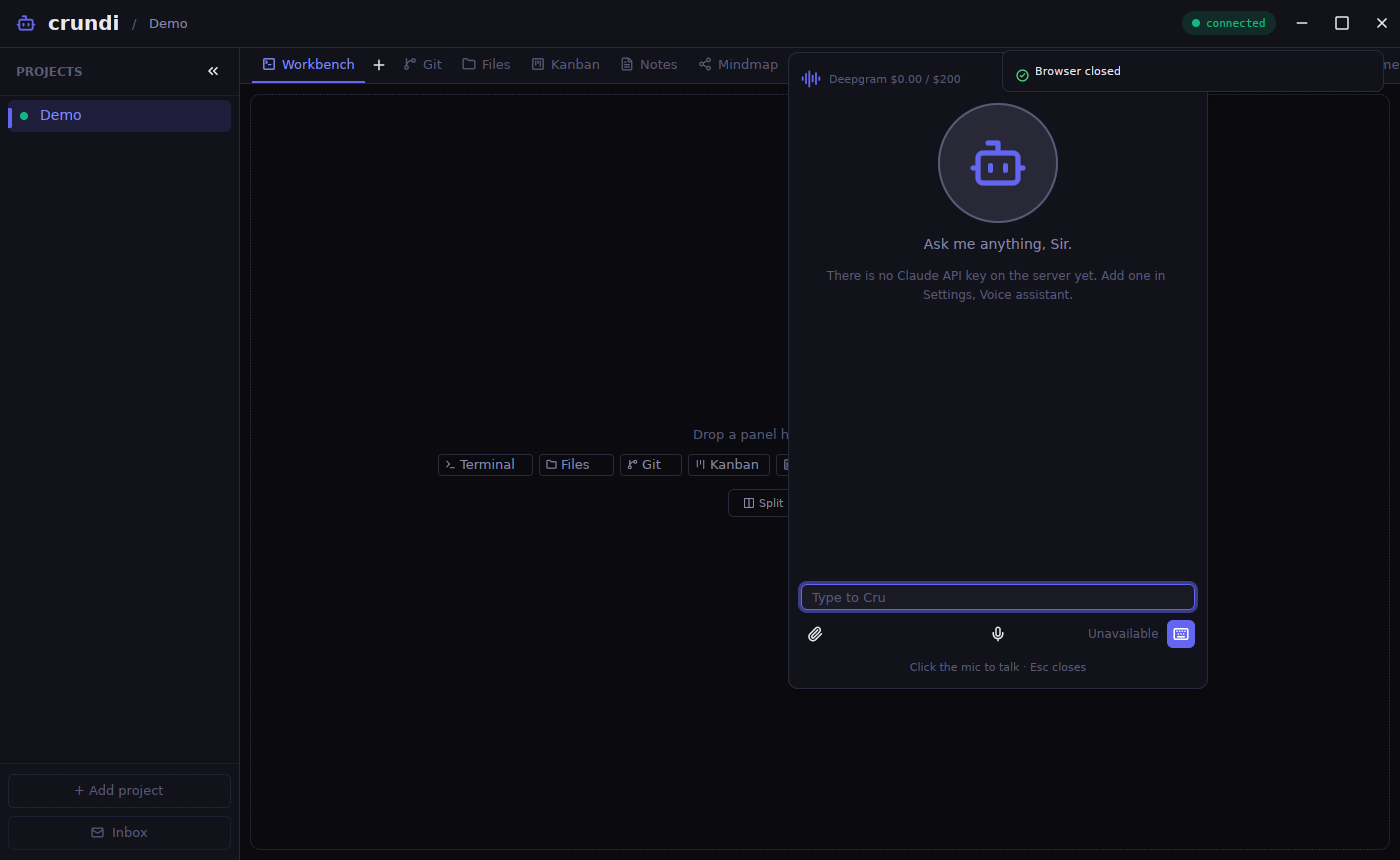
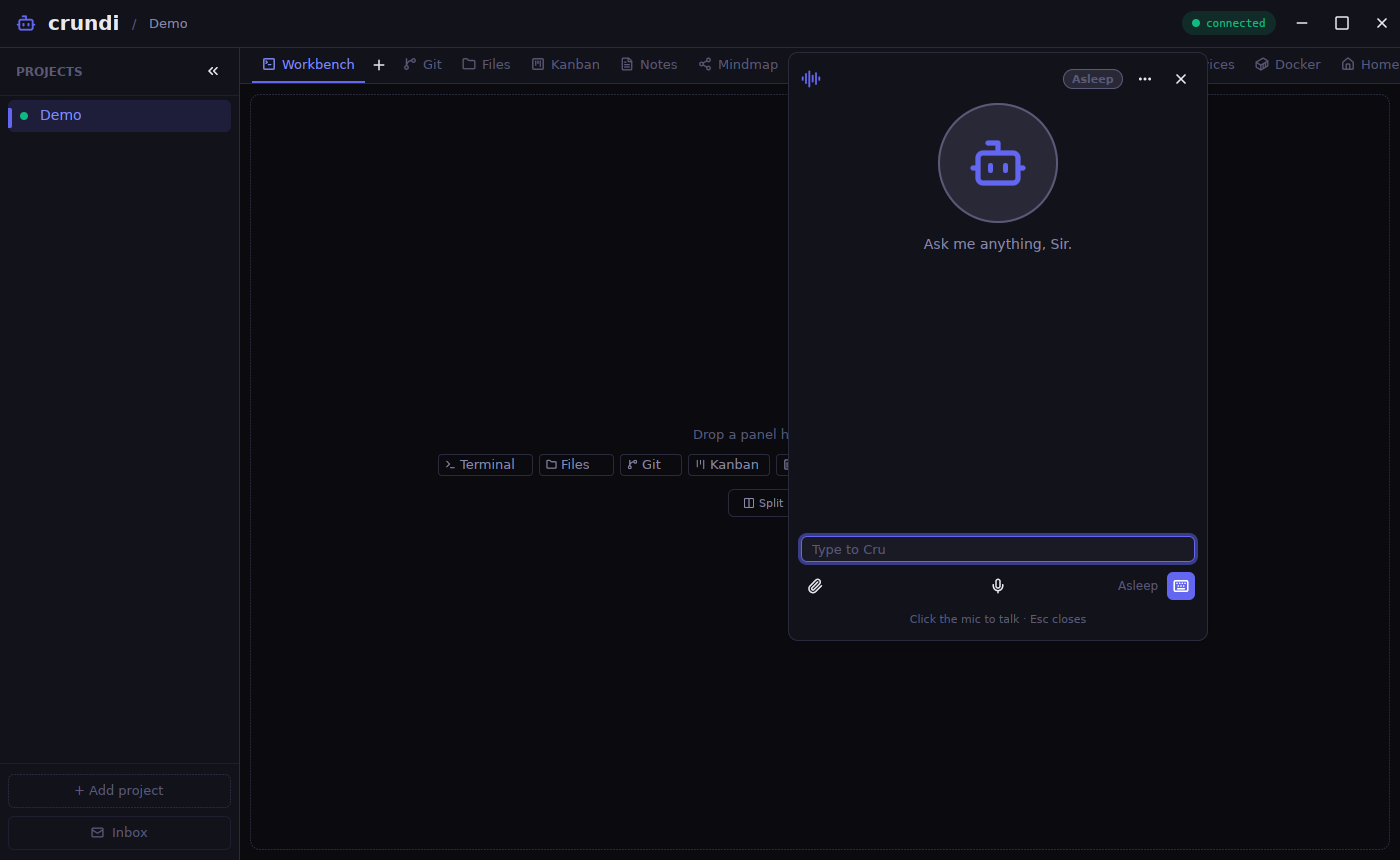
factory: Desktop — I built the 6.3 chat bubble and fixed F81

diff --git a/native-gpui/crates/desktop/src/bubble.rs b/native-gpui/crates/desktop/src/bubble.rs
@@ -1,0 +1,184 @@
+//! The chat bubble (6.3; the change request's Desktop list): a chat in a
+//! small window of its own that floats over every other window, as the
+//! phone's bubble does (specs/desktop/inbox-tray-bubble.md C.1): collapsed,
+//! a round head (an unread dot when a message comes in); expanded, the chat
+//! itself, its log over its composer (the same views as a pane: chat-log,
+//! chat-composer, on the chat's own model), with a head row (title, collapse,
+//! open in Crundi, close). A press on the head without moving expands or
+//! collapses it; a drag moves the window.
+//!
+//! One bubble at a time; opening another chat moves the bubble to it.
+
+use crate::ctx;
+use crundi_chat_composer::ComposerView;
+use crundi_chat_log::LogView;
+use crundi_chat_model::{self as model, ChatModel};
+use crundi_theme::{IconName, T};
+use crundi_widgets as w;
+use gpui::{prelude::FluentBuilder as _, *};
+use gpui_component::Root;
+use serde_json::{json, Value};
+
+pub struct Bubble {
+    chat: String,
+    model: Entity<ChatModel>,
+    log: Entity<LogView>,
+    composer: Entity<ComposerView>,
+    expanded: bool,
+    unread: bool,
+    seen: usize,
+    press: Option<Point<Pixels>>,
+    _sub: Subscription,
+}
+
+impl Bubble {
+    fn new(chat: &str, window: &mut Window, cx: &mut Context<Self>) -> Self {
+        let m = model::model(cx, chat);
+        let seen = m.read(cx).conv.entries.len();
+        let log = cx.new(|cx| LogView::new(m.clone(), cx));
+        let composer = cx.new(|cx| ComposerView::new(m.clone(), window, cx));
+        let sub = cx.observe(&m, |this: &mut Bubble, m, cx| {
+            let n = m.read(cx).conv.entries.len();
+            if n > this.seen && !this.expanded { this.unread = true; }
+            if this.expanded { this.seen = n; }
+            cx.notify();
+        });
+        Bubble { chat: chat.to_string(), model: m, log, composer, expanded: true, unread: false, seen, press: None, _sub: sub }
+    }
+
+    fn title(&self, cx: &App) -> (String, String) {
+        let m = self.model.read(cx);
+        (if m.conv.title.is_empty() { "Chat".into() } else { m.conv.title.clone() }, if m.conv.state.is_empty() { "idle".into() } else { m.conv.state.clone() })
+    }
+
+    /// Expand or collapse: the window takes the chat's size or the head's.
+    pub fn set_expanded(&mut self, on: bool, window: &mut Window, cx: &mut Context<Self>) {
+        self.expanded = on;
+        if on { self.unread = false; self.seen = self.model.read(cx).conv.entries.len(); }
+        window.resize(if on { size(T::BUBBLE_W, T::BUBBLE_H) } else { size(T::BUBBLE_HEAD, T::BUBBLE_HEAD) });
+        cx.notify();
+    }
+
+    /// The head: a press without moving toggles; a drag moves the window.
+    fn head_events(d: Stateful<Div>, cx: &mut Context<Self>) -> Stateful<Div> {
+        d.on_mouse_down(MouseButton::Left, cx.listener(|this, e: &MouseDownEvent, _, _| this.press = Some(e.position)))
+            .on_mouse_move(cx.listener(|this, e: &MouseMoveEvent, window, _| {
+                let Some(p) = this.press else { return };
+                if e.pressed_button != Some(MouseButton::Left) { this.press = None; return; }
+                let d = e.position - p;
+                if f32::from(d.x).abs() > f32::from(T::SP_4) || f32::from(d.y).abs() > f32::from(T::SP_4) { this.press = None; window.start_window_move(); }
+            }))
+            .on_mouse_up(MouseButton::Left, cx.listener(|this, _, window, cx| {
+                if this.press.take().is_some() { let on = !this.expanded; this.set_expanded(on, window, cx); }
+            }))
+    }
+}
+
+impl Render for Bubble {
+    fn render(&mut self, _window: &mut Window, cx: &mut Context<Self>) -> impl IntoElement {
+        let (title, state) = self.title(cx);
+        let root = div().size_full().bg(T::bg()).text_color(T::text()).text_size(T::TEXT_13).font(crundi_theme::ui_font());
+        if !self.expanded {
+            let head = div().id("bubble-head").size_full().rounded_full().bg(T::accent()).flex().items_center().justify_center()
+                .text_color(T::white()).text_size(T::ICON_XL).cursor_pointer().child(IconName::MessageSquare)
+                .when(self.unread, |d| d.child(div().absolute().top(T::SP_4).right(T::SP_4).size(T::DOT + T::SP_4).rounded_full().bg(T::red()).border_2().border_color(T::white())));
+            return root.bg(T::accent()).rounded_full().relative().child(Self::head_events(head, cx)).into_any_element();
+        }
+        let chat = self.chat.clone();
+        let head = div().id("bubble-bar").flex().flex_none().items_center().gap(T::SP_8).h(T::PANE_HEAD).px(T::SP_10)
+            .bg(T::bg_secondary()).border_b_1().border_color(T::border()).cursor_grab()
+            .child(w::dot(w::state_color(&state)))
+            .child(div().flex_1().min_w_0().truncate().font_weight(T::W_SEMIBOLD).child(title));
+        let head = Self::head_events(head, cx)
+            .child(w::icon_button("bubble-collapse", IconName::Minus, "Collapse to the bubble").on_click(cx.listener(|this, _, window, cx| this.set_expanded(false, window, cx))))
+            .child(w::icon_button("bubble-app", IconName::Maximize2, "Open in Crundi").on_click(move |_, _, _| { ctx::raise(); crate::go_to_chat(&chat); }))
+            .child(w::icon_button("bubble-close", IconName::X, "Close the bubble").on_click(|_, window, _| { window.remove_window(); close_state(); }));
+        root.flex().flex_col().border_1().border_color(T::border())
+            .child(head)
+            .child(div().flex().flex_col().flex_1().min_h_0().child(self.log.clone()).child(self.composer.clone()))
+            .into_any_element()
+    }
+}
+
+/// The bubble's window and view (one at a time).
+struct Open { window: AnyWindowHandle, view: Entity<Bubble> }
+thread_local! { static OPEN: std::cell::RefCell<Option<Open>> = const { std::cell::RefCell::new(None) }; }
+
+fn close_state() { OPEN.with(|o| *o.borrow_mut() = None); }
+
+/// Open the bubble for a chat (or move the bubble to it), expanded.
+pub fn open(chat: &str, cx: &mut App) {
+    if chat.is_empty() { return ctx::toast_error("This app cannot open a bubble"); }
+    let cur = OPEN.with(|o| o.borrow().as_ref().map(|x| (x.window, x.view.clone())));
+    if let Some((win, view)) = cur {
+        if view.read(cx).chat == chat {
+            let _ = win.update(cx, |_, window, cx| view.update(cx, |b, cx| b.set_expanded(true, window, cx)));
+            return;
+        }
+        let _ = win.update(cx, |_, window, _| window.remove_window());
+        close_state();
+    }
+    // Bottom right of the display (the expanded chat fits above and left of it).
+    let size = size(T::BUBBLE_W, T::BUBBLE_H);
+    let origin = match cx.primary_display() {
+        Some(d) => { let b = d.bounds(); point(b.origin.x + b.size.width - size.width - T::SP_24, b.origin.y + b.size.height - size.height - T::SP_24) }
+        None => point(T::WINDOW_W - size.width - T::SP_24, T::WINDOW_H - size.height - T::SP_24),
+    };
+    let opts = WindowOptions {
+        window_bounds: Some(WindowBounds::Windowed(Bounds { origin, size })),
+        titlebar: None,
+        kind: WindowKind::PopUp,
+        is_movable: true,
+        focus: true,
+        window_decorations: Some(WindowDecorations::Client),
+        app_id: Some("crundi-bubble".into()),
+        ..Default::default()
+    };
+    let id = chat.to_string();
+    let mut made: Option<Entity<Bubble>> = None;
+    let r = cx.open_window(opts, |window, cx| {
+        let b = cx.new(|cx| Bubble::new(&id, window, cx));
+        made = Some(b.clone());
+        cx.new(|cx| Root::new(b, window, cx))
+    });
+    match (r, made) {
+        (Ok(h), Some(view)) => OPEN.with(|o| *o.borrow_mut() = Some(Open { window: h.into(), view })),
+        _ => ctx::toast_error("This app cannot open a bubble"),
+    }
+}
+
+/// Expand or collapse the open bubble.
+pub fn toggle(cx: &mut App) {
+    let Some((win, view)) = OPEN.with(|o| o.borrow().as_ref().map(|x| (x.window, x.view.clone()))) else { return };
+    let _ = win.update(cx, |_, window, cx| view.update(cx, |b, cx| { let on = !b.expanded; b.set_expanded(on, window, cx); }));
+}
+
+pub fn close(cx: &mut App) {
+    let Some(win) = OPEN.with(|o| o.borrow().as_ref().map(|x| x.window)) else { return };
+    let _ = win.update(cx, |_, window, _| window.remove_window());
+    close_state();
+}
+
+/// Type and send in the bubble's composer (the test driver).
+pub fn send(text: &str, cx: &mut App) {
+    let Some((win, view)) = OPEN.with(|o| o.borrow().as_ref().map(|x| (x.window, x.view.clone()))) else { return };
+    let comp = view.read(cx).composer.clone();
+    let t = text.to_string();
+    let _ = win.update(cx, |_, window, cx| comp.update(cx, |c, cx| { c.set_text(&t, window, cx); c.send(window, cx); }));
+}
+
+/// The whole screen with the bubble on it, as a PNG (X11: xwd), for the test driver.
+pub fn snap(path: &str) -> bool {
+    std::process::Command::new("sh").arg("-c").arg(format!("xwd -silent -root | convert xwd:- png:{path}")).status().is_ok_and(|s| s.success())
+}
+
+pub fn props(cx: &App) -> Value {
+    OPEN.with(|o| match o.borrow().as_ref() {
+        None => json!({ "open": false }),
+        Some(x) => {
+            let b = x.view.read(cx);
+            let (title, state) = b.title(cx);
+            json!({ "open": true, "chat": b.chat, "expanded": b.expanded, "unread": b.unread, "title": title, "state": state, "entries": b.model.read(cx).conv.entries.len() })
+        }
+    })
+}

diff --git a/native-gpui/crates/desktop/src/lib.rs b/native-gpui/crates/desktop/src/lib.rs
@@ -14,6 +14,7 @@
 //! - `ctx`: what the logic reads of the window and asks of it.
 
 mod browsers;
+mod bubble;
 mod ctx;
 mod cru;
 mod cru_ui;
@@ -86,7 +87,9 @@ pub fn init(window: &mut Window, cx: &mut App) {
             _ => {}
         })
         .test_ui(|name, args, window, cx| { refresh(window, cx); test_ui(name, args) })
-        .props(|_, _| json!({ "areas": { "desktop": props() } })));
+        .props(|_, cx| { let mut p = props(); p["bubble"] = bubble::props(cx); json!({ "areas": { "desktop": p } }) }));
+    // The pane header's Bubble button (Workspace's) opens a chat's bubble through this hook.
+    crundi_shell::register_bubble(cx, |chat, cx| bubble::open(chat, cx));
     // Browser-only mode (test/drive.mjs): a socket of its own to a server.
     if let Ok(url) = std::env::var("CRUNDI_SERVER") { if !url.is_empty() { host::start(url); } }
 }
@@ -99,6 +102,14 @@ pub fn pump(window: &mut Window, cx: &mut App) {
     host::pump();
     passwords::pump();
     for p in tray::take_picks() { tray::act(&p); }
+    if let Some((what, arg)) = BUBBLE_ASK.with(|b| b.borrow_mut().take()) {
+        match what {
+            "open" => { let id = if arg.is_empty() { crundi_chats::focused_chat(cx) } else { arg }; bubble::open(&id, cx); }
+            "toggle" => bubble::toggle(cx),
+            "close" => bubble::close(cx),
+            _ => bubble::send(&arg, cx),
+        }
+    }
     for f in ctx::take_effects() { f(window, cx); }
     notify::pump();
     for f in ctx::take_main() { f(); }
@@ -164,6 +175,8 @@ fn go_to_chat(chat: &str) {
 
 thread_local! {
     /// The driver's evals: the last token, and the answers by token.
+    /// A bubble action from the driver, for the next pump (it needs the App).
+    static BUBBLE_ASK: RefCell<Option<(&'static str, String)>> = const { RefCell::new(None) };
     static EVALS: RefCell<(u64, serde_json::Map<String, Value>)> = RefCell::new((0, serde_json::Map::new()));
 }
 
@@ -244,6 +257,11 @@ fn test_ui(name: &str, args: &[String]) -> Option<Value> {
         "pw-unlock" => { passwords::unlock(&a(0)); ok() }
         "pw-remove" => { passwords::remove(&a(0)); ok() }
         "pw-unnever" => { passwords::unnever(&a(0)); ok() }
+        "bubble-open" => { let id = Some(a(0)).filter(|x| !x.is_empty()); BUBBLE_ASK.with(|b| *b.borrow_mut() = Some(("open", id.unwrap_or_default()))); ok() }
+        "bubble-toggle" => { BUBBLE_ASK.with(|b| *b.borrow_mut() = Some(("toggle", String::new()))); ok() }
+        "bubble-close" => { BUBBLE_ASK.with(|b| *b.borrow_mut() = Some(("close", String::new()))); ok() }
+        "bubble-send" => { BUBBLE_ASK.with(|b| *b.borrow_mut() = Some(("send", a(0)))); ok() }
+        "bubble-snap" => Some(json!({ "ok": bubble::snap(&a(0)) })),
         "tray-pick" => { tray::test_pick(&a(0)); ok() }
         "startup" => Some(json!({ "ok": true, "enabled": startup::enabled() })),
         "homepool-status" => Some(json!({ "ok": true, "status": homepool::status() })),

diff --git a/native-gpui/crates/shell/src/registry.rs b/native-gpui/crates/shell/src/registry.rs
@@ -119,6 +119,8 @@ pub struct Areas {
     /// A part's layer over the whole window, not modal (Desktop's Cru
     /// screen): it draws only what it shows, positioned absolutely.
     pub overlays: Vec<AnyView>,
+    /// Opens a chat's bubble (Desktop's), for the pane header's Bubble button.
+    pub bubble: Option<Rc<dyn Fn(&str, &mut App)>>,
 }
 
 impl Global for Areas {}
@@ -177,6 +179,18 @@ pub fn register_overlay(cx: &mut App, view: AnyView) {
 
 /// The layers over the window, for the shell to draw.
 pub(crate) fn overlays(cx: &App) -> Vec<AnyView> { cx.try_global::<Areas>().map(|a| a.overlays.clone()).unwrap_or_default() }
+
+/// Register what opens a chat's bubble (Desktop, once). Added by Desktop,
+/// for the Lead to review.
+pub fn register_bubble(cx: &mut App, f: impl Fn(&str, &mut App) + 'static) {
+    if !cx.has_global::<Areas>() { cx.set_global(Areas::default()); }
+    cx.global_mut::<Areas>().bubble = Some(Rc::new(f));
+}
+
+/// Open a chat's bubble (the pane header's Bubble button); false: no bubble here.
+pub fn open_bubble(cx: &mut App, chat: &str) -> bool {
+    match cx.try_global::<Areas>().and_then(|a| a.bubble.clone()) { Some(f) => { f(chat, cx); true } None => false }
+}
 
 /// Register the browser drawer's view (Desktop, once).
 pub fn register_drawer(cx: &mut App, drawer: Drawer) {

diff --git a/native-gpui/crates/desktop/src/passwords.rs b/native-gpui/crates/desktop/src/passwords.rs
@@ -452,7 +452,12 @@ pub fn unlock(pin: &str) {
     let Some(id) = pin_for() else { return };
     let body = json!({ "pin": pin });
     kit::call(move |api| api.post("/api/lock/check", &body), move |r| match r {
-        Ok(v) if kit::truthy(&v["ok"]) => { with(|s| s.unlocked = Some(Instant::now())); reveal(&id); }
+        Ok(v) if kit::truthy(&v["ok"]) => {
+            with(|s| s.unlocked = Some(Instant::now()));
+            // A wrong PIN's toast goes once the right one is in (F81).
+            kit::on_app(|win, cx| crundi_widgets::clear_toasts(win, cx));
+            reveal(&id);
+        }
         Ok(v) => kit::toast_error(&Some(kit::s(&v, "error")).filter(|e| !e.is_empty()).unwrap_or_else(|| "That is not the PIN".into())),
         Err(e) => kit::toast_error(if e.is_empty() { "That is not the PIN" } else { &e }),
     });

diff --git a/native-gpui/crates/shell/src/lib.rs b/native-gpui/crates/shell/src/lib.rs
@@ -12,7 +12,7 @@ use crundi_widgets as w;
 use gpui::{prelude::FluentBuilder as _, *};
 use serde_json::{json, Value};
 
-pub use registry::{register, register_action, register_add_menu, register_drawer, register_overlay, Area, AreaEvent, Drawer, TABS};
+pub use registry::{open_bubble, register, register_action, register_add_menu, register_bubble, register_drawer, register_overlay, Area, AreaEvent, Drawer, TABS};
 pub use session::{api, call, project, run, signed_in, subscribe, unsubscribe, ws_send, Session, Step};
 
 /// The window's own state: the tab, the sidebar, the drawer, sign-in's fields.

diff --git a/native-gpui/crates/widgets/src/lib.rs b/native-gpui/crates/widgets/src/lib.rs
@@ -514,6 +514,13 @@ pub fn toast(window: &mut Window, cx: &mut App, text: impl Into<SharedString>, k
 #[derive(Clone, Copy, PartialEq, Debug)]
 pub enum Toast { Info, Error, Success }
 
+/// Take every toast down (an error that an action has since answered, as a
+/// right PIN after a wrong one).
+pub fn clear_toasts(window: &mut Window, cx: &mut App) {
+    cx.set_global(LastToast(None));
+    window.clear_notifications(cx);
+}
+
 // ─── Dividers ───
 
 /// The draggable divider between two parts (the drawer's): the accent while

diff --git a/native-gpui/crates/theme/src/lib.rs b/native-gpui/crates/theme/src/lib.rs
@@ -448,6 +448,10 @@ impl T {
     pub const CRU_TURN_W: Pixels = px(336.);
     pub const CRU_CHAT_H: Pixels = px(260.);
     pub const CRU_RIGHT: Pixels = px(192.);
+    /// The chat bubble: its round head, and the expanded chat's window.
+    pub const BUBBLE_HEAD: Pixels = px(56.);
+    pub const BUBBLE_W: Pixels = px(380.);
+    pub const BUBBLE_H: Pixels = px(640.);
     // ── end desktop ──
 }
 
